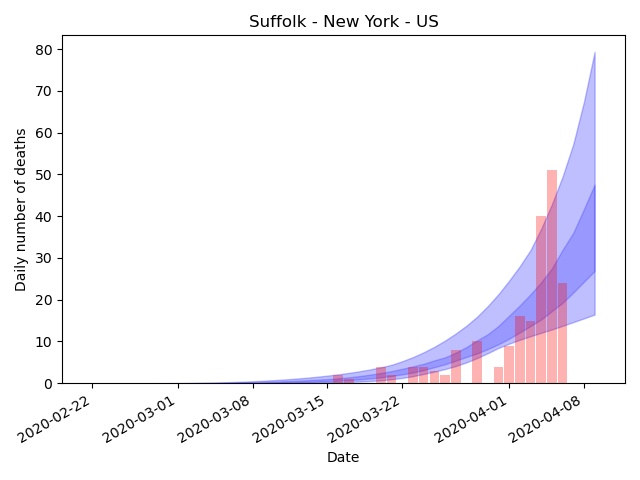
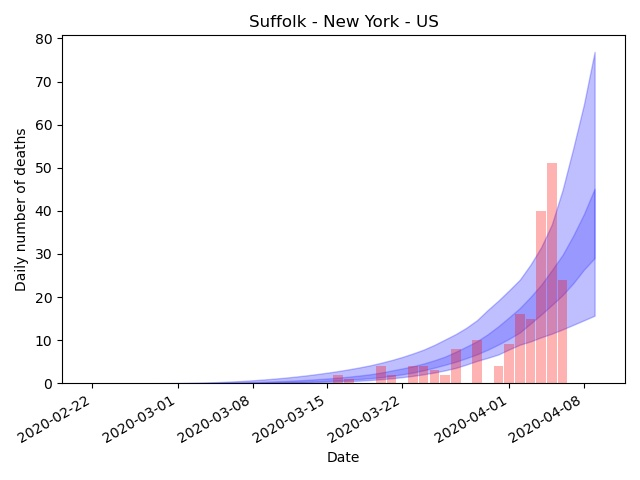
updated county plots
i dont see the diff in death prediction but mb infection just decreased a bit

diff --git a/scripts/forecast_plots.py b/scripts/forecast_plots.py
@@ -6,7 +6,7 @@ import pandas as pd
 import datetime
 
 # change here variables for different plotting options
-plot_settings = 'eu'  # choose 'eu' for europe and 'usa' for usa plots
+plot_settings = 'usa'  # choose 'eu' for europe and 'usa' for usa plots
 base_model = True  # True for prediction/E_deaths, False for prediction0/E_deaths0
 # to match with IC paper select base_model==True
 last_day_to_plot = '4/10/20'  # predict to this date
@@ -188,10 +188,26 @@ def read_true_cases_us(plot_choice, num_of_country, dict_of_start_dates, dict_of
 
 
 # create a batch of all possible plots for usa
-def make_all_us_plots():
-    dict_of_start_dates = pd.read_csv('../results/us_start_dates.csv', delimiter=',', index_col=0)
-    dict_of_eu_geog = pd.read_csv('../results/us_geocode.csv', delimiter=',', index_col=0)
-    path = "../results/US_summary.csv"
+def make_all_us_county_plots():
+    dict_of_start_dates = pd.read_csv('../results/us_county_start_dates.csv', delimiter=',', index_col=0)
+    dict_of_eu_geog = pd.read_csv('../results/us_county_geocode.csv', delimiter=',', index_col=0)
+    path = "../results/US_county_summary.csv"
+
+    for plot_choice in range(0, 2):
+        for num_of_country in dict_of_eu_geog.keys():
+            print(num_of_country)
+            confirmed_cases, county_name = read_true_cases_us(plot_choice, num_of_country, dict_of_start_dates,
+                                                              dict_of_eu_geog)
+            plot_daily_infections_num(path, confirmed_cases, county_name, plot_choice, num_of_country,
+                                      dict_of_start_dates, dict_of_eu_geog)
+    return
+
+
+# create a batch of all possible plots for usa
+def make_all_us_states_plots():
+    dict_of_start_dates = pd.read_csv('../results/us_states_start_dates.csv', delimiter=',', index_col=0)
+    dict_of_eu_geog = pd.read_csv('../results/us_states_geocode.csv', delimiter=',', index_col=0)
+    path = "../results/US_state_summary.csv"
 
     for plot_choice in range(0, 2):
         for num_of_country in dict_of_eu_geog.keys():
@@ -219,7 +235,8 @@ def make_all_eu_plots():
 
 def main():
     if plot_settings == 'usa':
-        make_all_us_plots()
+        make_all_us_county_plots()
+        make_all_us_states_plots()
     if plot_settings == 'eu':
         make_all_eu_plots()
 
